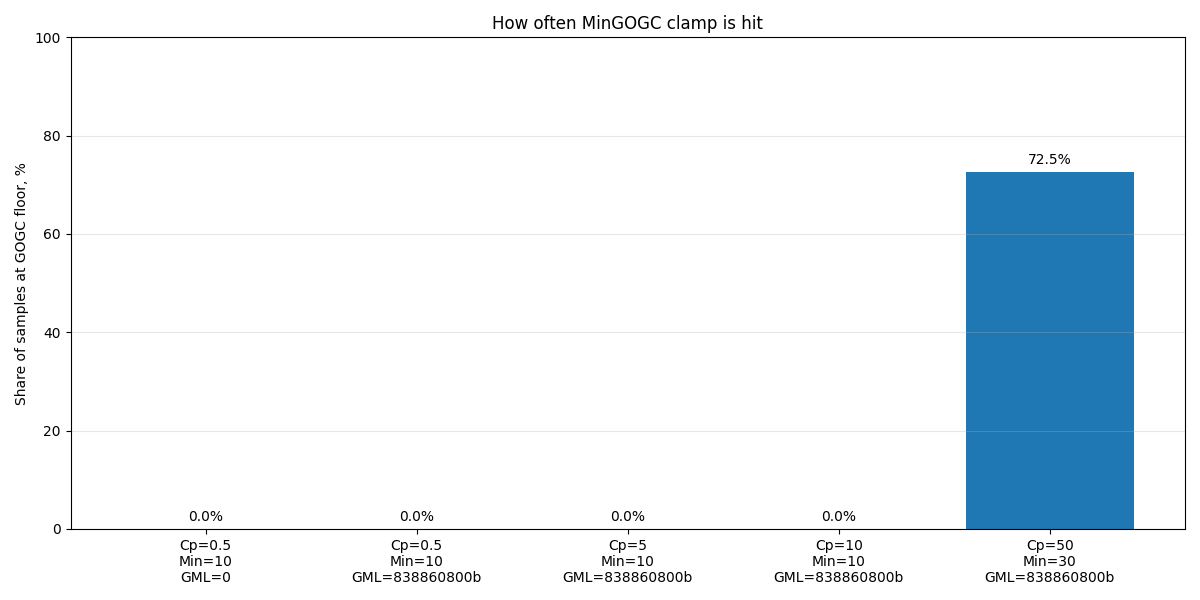
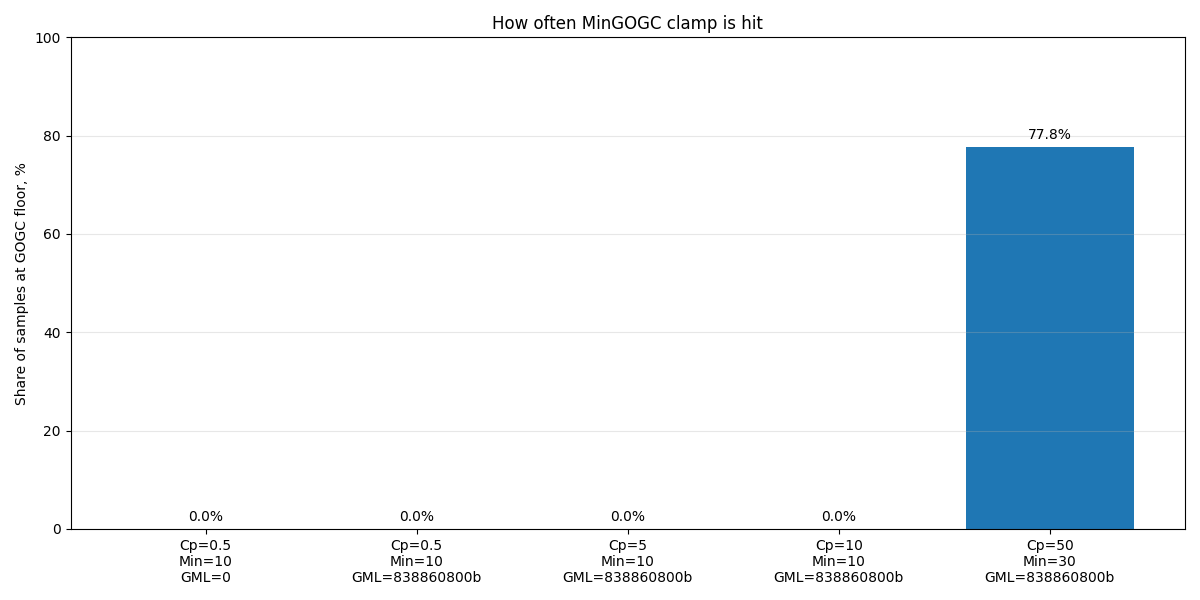
CAP-2634 | fix: remove synthetic OOM emulation, tune allocator stress profile, and sync README/plots with real OOM-vs-memlimiter behavior

Changed region(s): [[0.8017, 0.21, 0.9558, 0.3]]

diff --git a/test/allocator/analyze/render.py b/test/allocator/analyze/render.py
@@ -9,6 +9,7 @@ import humanize as humanize
 import matplotlib.pyplot as plt
 import matplotlib.ticker
 import numpy as np
+import pandas as pd
 
 from report import Report
 
@@ -34,10 +35,32 @@ def _make_axes_grid(nplots: int, ncols: int = 2):
 def _report_title(report: Report) -> str:
     params = report.session.params
     if params.unlimited:
+        if _terminated_early(report):
+            elapsed = _elapsed_duration_seconds(report)
+            return f"MemLimiter disabled (terminated at ~{elapsed:.0f}s)"
         return "MemLimiter disabled"
 
     go_limit = params.go_memory_limit_str
     return f"Cp={params.coefficient_str}, MinGOGC={params.min_gogc}, GoLimit={go_limit}"
+
+
+def _expected_duration_seconds(report: Report) -> float:
+    return float(pd.to_timedelta(report.session.params.load_duration).total_seconds())
+
+
+def _elapsed_duration_seconds(report: Report) -> float:
+    if report.df.empty:
+        return 0.0
+
+    return float(report.df['elapsed_time'].max())
+
+
+def _terminated_early(report: Report, tolerance: float = 0.95) -> bool:
+    expected = _expected_duration_seconds(report)
+    if expected <= 0:
+        return False
+
+    return _elapsed_duration_seconds(report) < expected * tolerance
 
 
 def control_params_subplots(reports: List[Report], path: os.PathLike):
@@ -103,7 +126,10 @@ def rss_pivot(reports: List[Report], path: os.PathLike):
     for i in range(n):
         report = reports[n - 1 - i]
         if report.session.params.unlimited:
-            label = 'No limits'
+            if _terminated_early(report):
+                label = f'No limits (terminated at ~{_elapsed_duration_seconds(report):.0f}s)'
+            else:
+                label = 'No limits'
         else:
             label = (
                 f'$C_{{p}}={report.session.params.coefficient_str}$, '

diff --git a/test/allocator/analyze/report.py b/test/allocator/analyze/report.py
@@ -33,19 +33,6 @@ class Report:
         return df
 
     def __post_init__(self):
-        # Emulate OOM event for unconstrained process.
-        if self.session.params.unlimited:
-            last_ts, last_but_one_ts = self.df['timestamp'].iloc[-1], self.df['timestamp'].iloc[-2]
-            delta = last_ts - last_but_one_ts
-            self.df.loc[len(self.df)] = {
-                'timestamp': last_ts + delta,
-                'rss': self.session.params.rss_limit,
-                'go_runtime_bytes': 0,
-                'utilization': 0,
-                'gogc': 0,
-                'throttling': 0,
-            }
-
         # Compute elapsed time.
         self.df['elapsed_time'] = (self.df['timestamp'] - self.df['timestamp'].min()).apply(
             lambda x: x.seconds + x.microseconds / 1000000)

diff --git a/test/allocator/analyze/compare.py b/test/allocator/analyze/compare.py
@@ -25,10 +25,10 @@ class PerfConfigRenderer:
     __t: Final = '''
 {
   "endpoint": "localhost:1988",
-  "rps": 100,
+  "rps": 120,
   "load_duration": "{{ load_duration }}",
   "allocation_size": "1M",
-  "pause_duration": "5s",
+  "pause_duration": "6s",
   "request_timeout": "1m"
 }
     '''

diff --git a/README.md b/README.md
@@ -176,6 +176,13 @@ Scenario-specific values:
 - $MinGOGC \in \{10, 30\}$
 - $C_{p} \in \{0.5, 5, 10, 50\}$
 
+Load profile (same for all scenarios):
+- $RPS = 120$
+- $AllocationSize = 1MiB$
+- $PauseDuration = 6s$
+- $RequestTimeout = 1m$
+- $LoadDuration = 60s$
+
 Current analyzer run outputs are generated under `/tmp/allocator/allocator_<HHMMSS>/` (images below are curated examples from `docs/`):
 
 ![Control params](docs/control_params.png)
@@ -183,6 +190,10 @@ Current analyzer run outputs are generated under `/tmp/allocator/allocator_<HHMM
 And the summary RSS plot across tested scenarios:
 
 ![RSS](docs/rss.png)
+
+Observed OOM behavior in this run:
+- Without MemLimiter (`unlimited=true`), the process terminates around ~16s under the 1GiB container limit.
+- With MemLimiter enabled, all limited scenarios sustain the full 60s load window.
 
 Additional plots for new controls (`go_memory_limit` and `min_gogc`) are generated by `make allocator-analyze` in the same run directory. Curated examples are stored under `docs/`:
 
@@ -193,6 +204,7 @@ Additional plots for new controls (`go_memory_limit` and `min_gogc`) are generat
 What it means:
 - It shows, per scenario, the share of samples where `GOGC` is clamped by `min_gogc`.
 - Higher values mean the safety floor is actively protecting the process from dropping to overly aggressive GC values.
+- In this run, the strict case (`C_p=50`, `min_gogc=30`) hits the floor for ~78% of samples.
 
 `memory_limits_overlay.png`:
 
@@ -200,13 +212,15 @@ What it means:
 
 What it means:
 - It shows `RSS` and `Go runtime memory` (tracked as `MemStats.Sys - MemStats.HeapReleased`) with configured limits over time.
-- If `Go runtime memory` is regularly above `go_memory_limit`, the limit is too high or ineffective for this workload.
+- `go_memory_limit` is a soft limit, so short-term overshoot is possible under bursty/high-allocation load.
+- If overshoot is large and persistent, allocation pressure is stronger than GC control for this workload.
 - If `RSS` stays high while `Go runtime memory` is low, pressure likely comes from non-Go allocations (`Cgo`/external memory), so better external accounting and/or stronger throttling is needed.
 
 General observations from these experiments:
-- Disabling MemLimiter (`unlimited` baseline) reaches OOM earlier than limited scenarios.
-- `go_memory_limit` helps constrain Go runtime-managed memory while preserving process-level control via RSS and throttling.
+- In the latest stress run, disabling MemLimiter (`unlimited` baseline) terminates around 16s under the 1GiB container limit, while limited scenarios complete the full 60s load.
+- `go_memory_limit=800MiB` adds extra GC pressure as a soft target; in this stress test it is not a hard ceiling for `Go runtime memory`.
 - `min_gogc` protects against extreme GC aggressiveness by clamping controller output in red-zone periods.
+- A stricter floor (`min_gogc=30`) with aggressive `C_p=50` shifts control toward stronger throttling (up to 99%) instead of further GC tightening.
 
 Runtime settings changed by MemLimiter are restored on `Service.Quit()`:
 - `GOGC` (`debug.SetGCPercent`)
